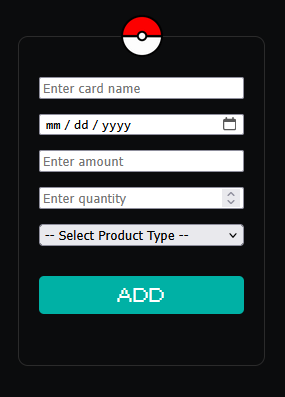
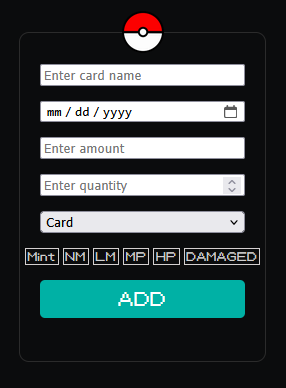
Added additional screenshots

diff --git a/README.md b/README.md
@@ -23,8 +23,14 @@ A Pokémon card collection tracker inspired by Collectr.
 ### Home Page
 ![Home Page](assets/images/screenshots/home_screenshot.png)
 
-### Breakdown Section & Adding Product Section
-![Add Card](assets/images/screenshots/breakdown_screenshot.png) ![Breakdown](assets/images/screenshots/adding_card_screenshot.png)
+
+### Adding Product Section
+![Add Card](assets/images/screenshots/adding_product_screenshot.png) ![Add Slab](assets/images/screenshots/adding_slab_screenshot.png) ![Add Card](assets/images/screenshots/adding_card_screenshot.png)
+
+
+### Breakdown Section
+![Breakdown](assets/images/screenshots/breakdown_screenshot.png)
+
 
 ## Future Features
 
